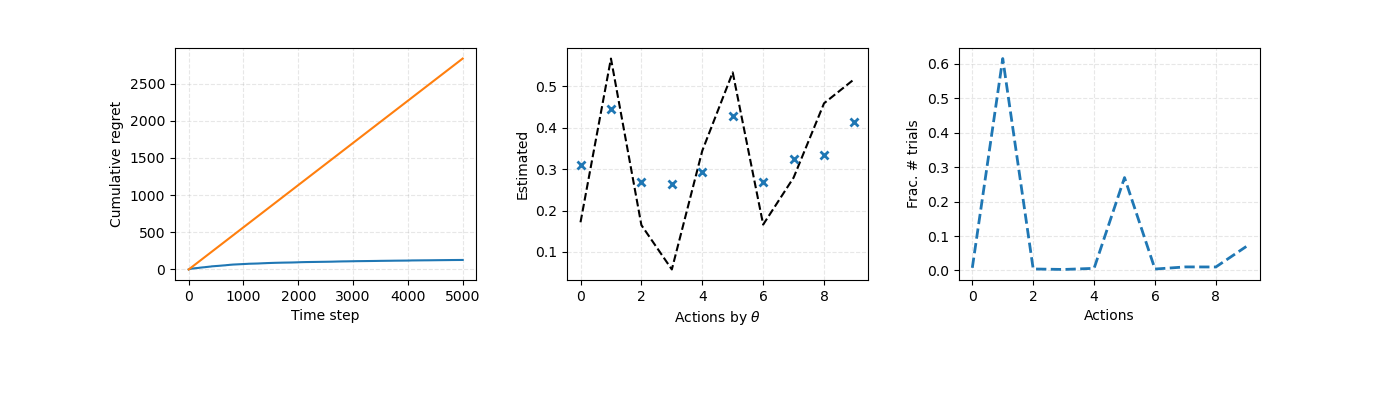
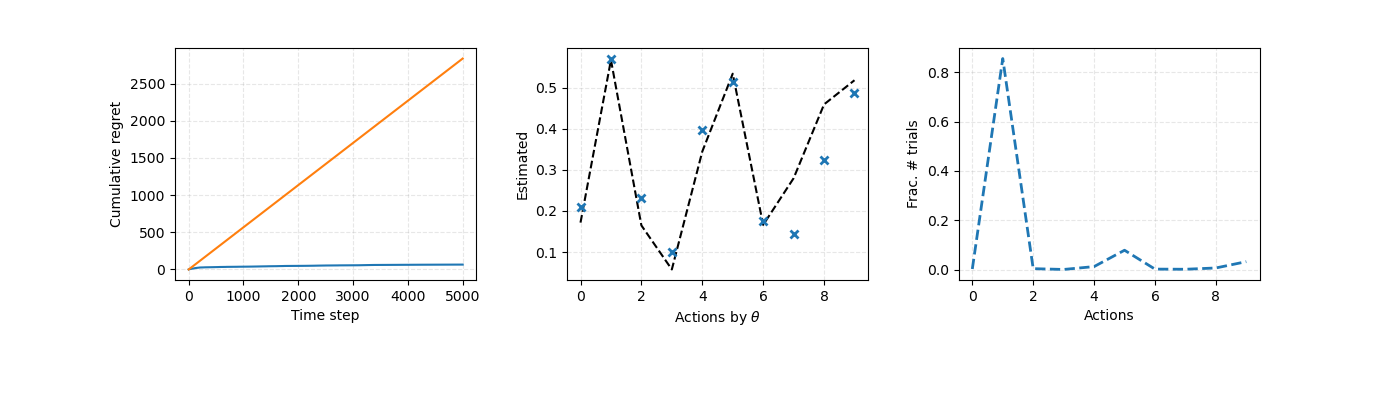
Fix update rule (not update all non-coi but exact arm)

diff --git a/bandits.py b/bandits.py
@@ -38,8 +38,16 @@ class CategoricalBandit(Bandit):
 
     def generate_reward(self, i):
         # The player selected the i-th machine.
-        res = np.random.choice(self.c, size=1, p=self.probas[i])[0]
+        sampled = np.random.choice(self.c, size=1, p=self.probas[i])[0]
+        res = {"reward": None, "sampled": sampled}
+
         if res == self.coi:
-            return 1
+            reward = 1
+            res["reward"] = reward
         else:
-            return 0
+            reward = 0
+            res["reward"] = reward
+
+        return res
+        
+            

diff --git a/solvers.py b/solvers.py
@@ -187,10 +187,8 @@ class ThompsonSamplingCategorical(Solver):
         i = max(
             range(10), key=lambda x: samples[x][self.bandit.coi]
         )  # best arm as far as bandit knows
-        r = self.bandit.generate_reward(i)
-
-        self._alpha[i][self.bandit.coi] += r
-        self._alpha[i][self.bandit.ncoi] += 1 - r
+        res = self.bandit.generate_reward(i)
+        self._alpha[i][res["sampled"]] += 1
 
         # print(self._alpha)
         return i
